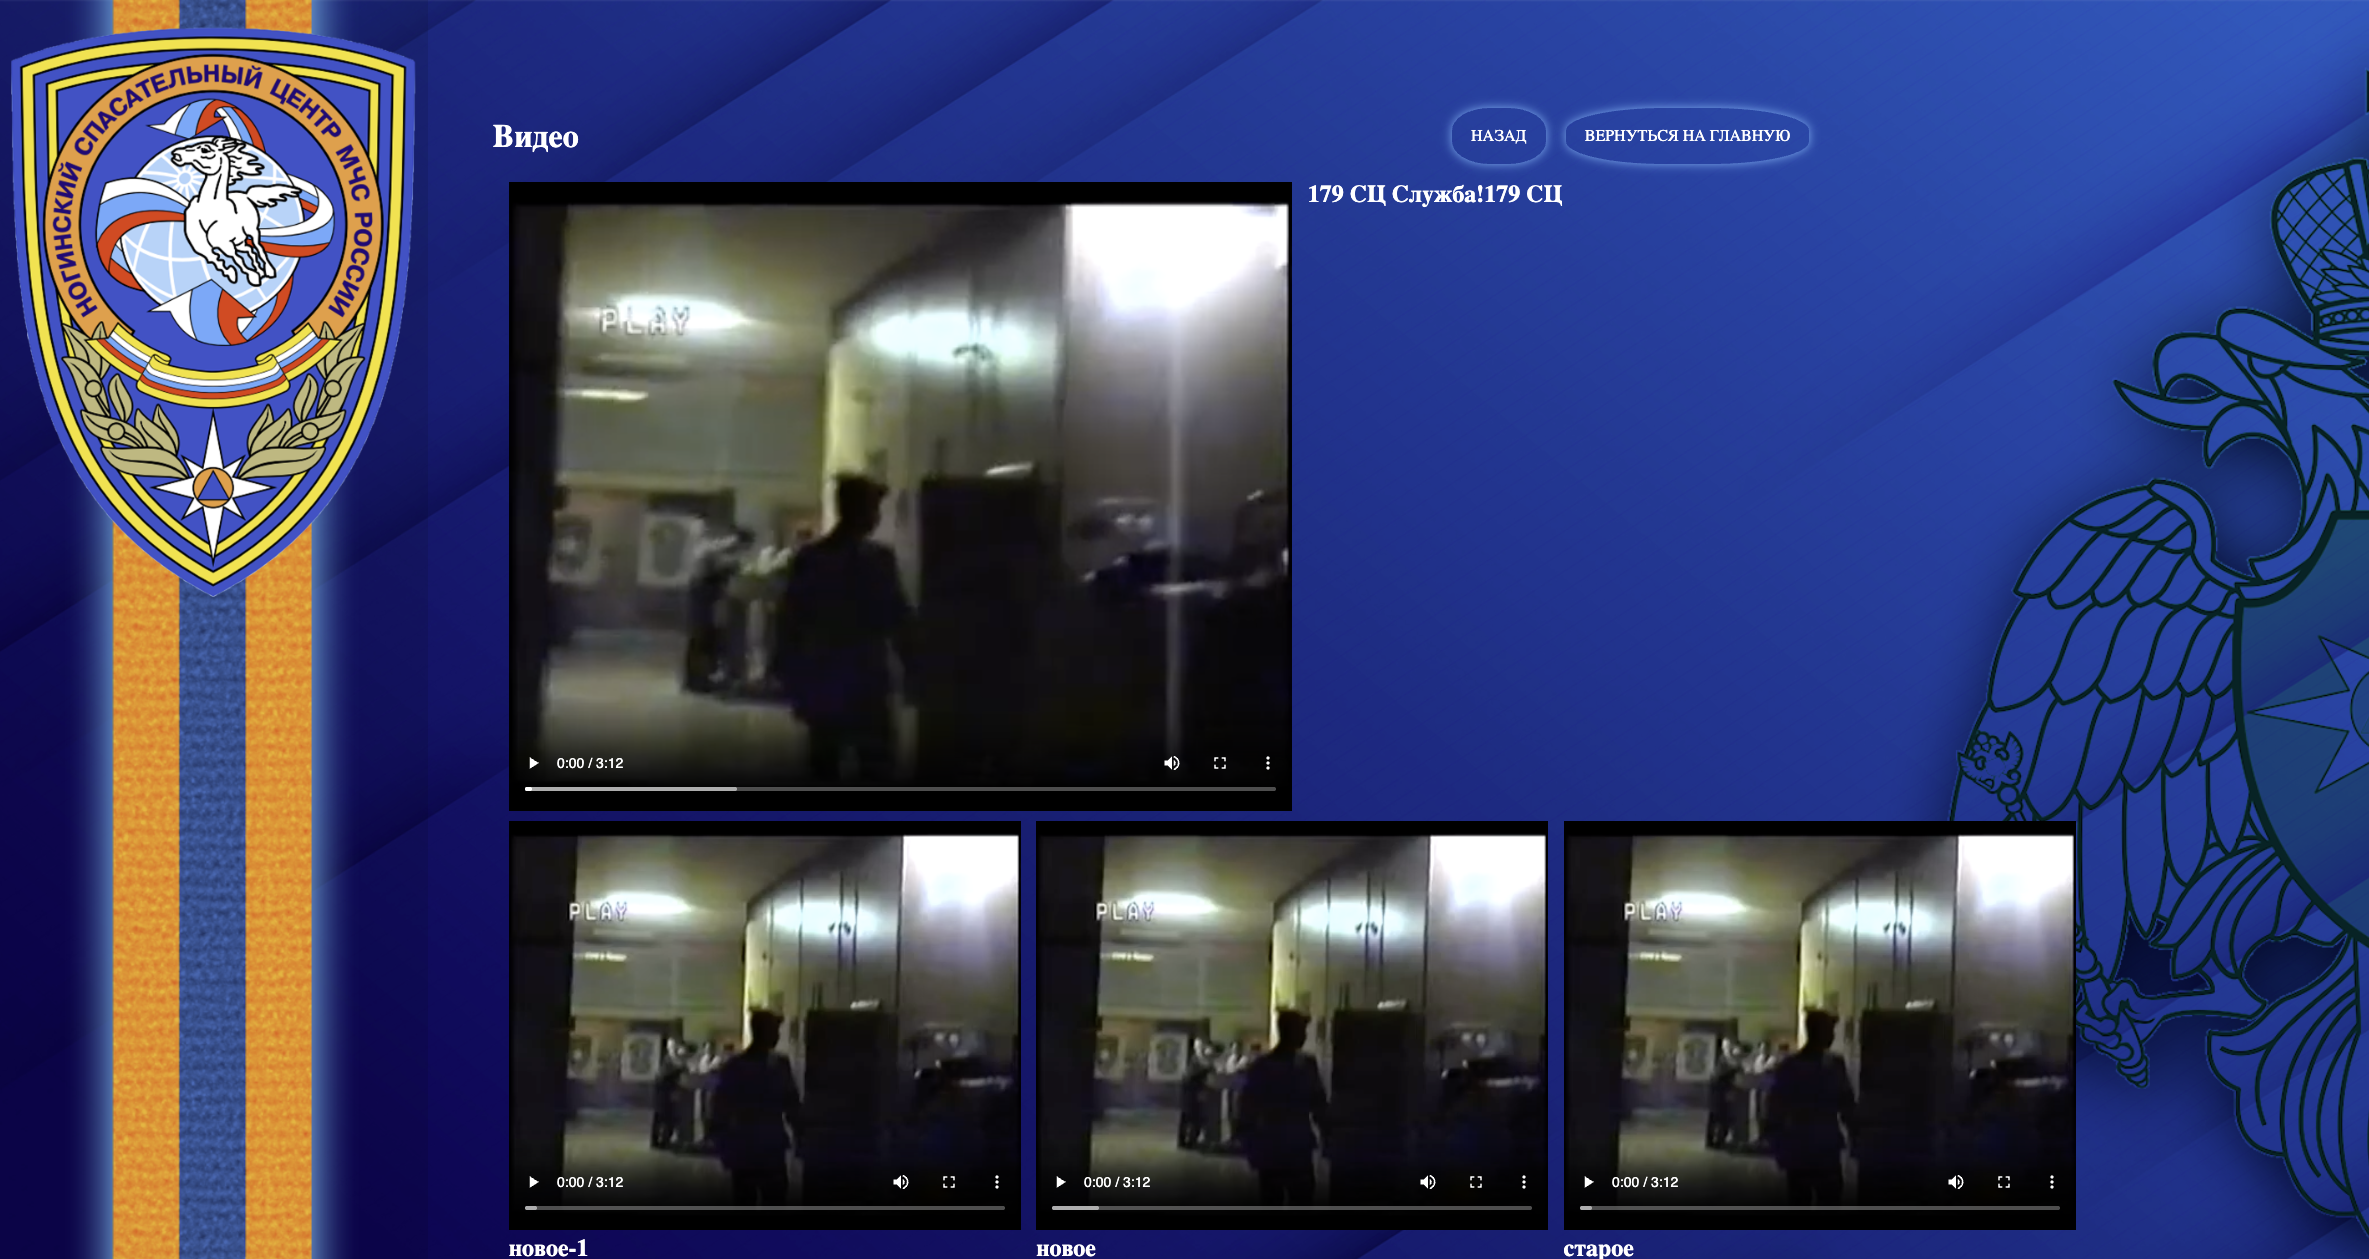
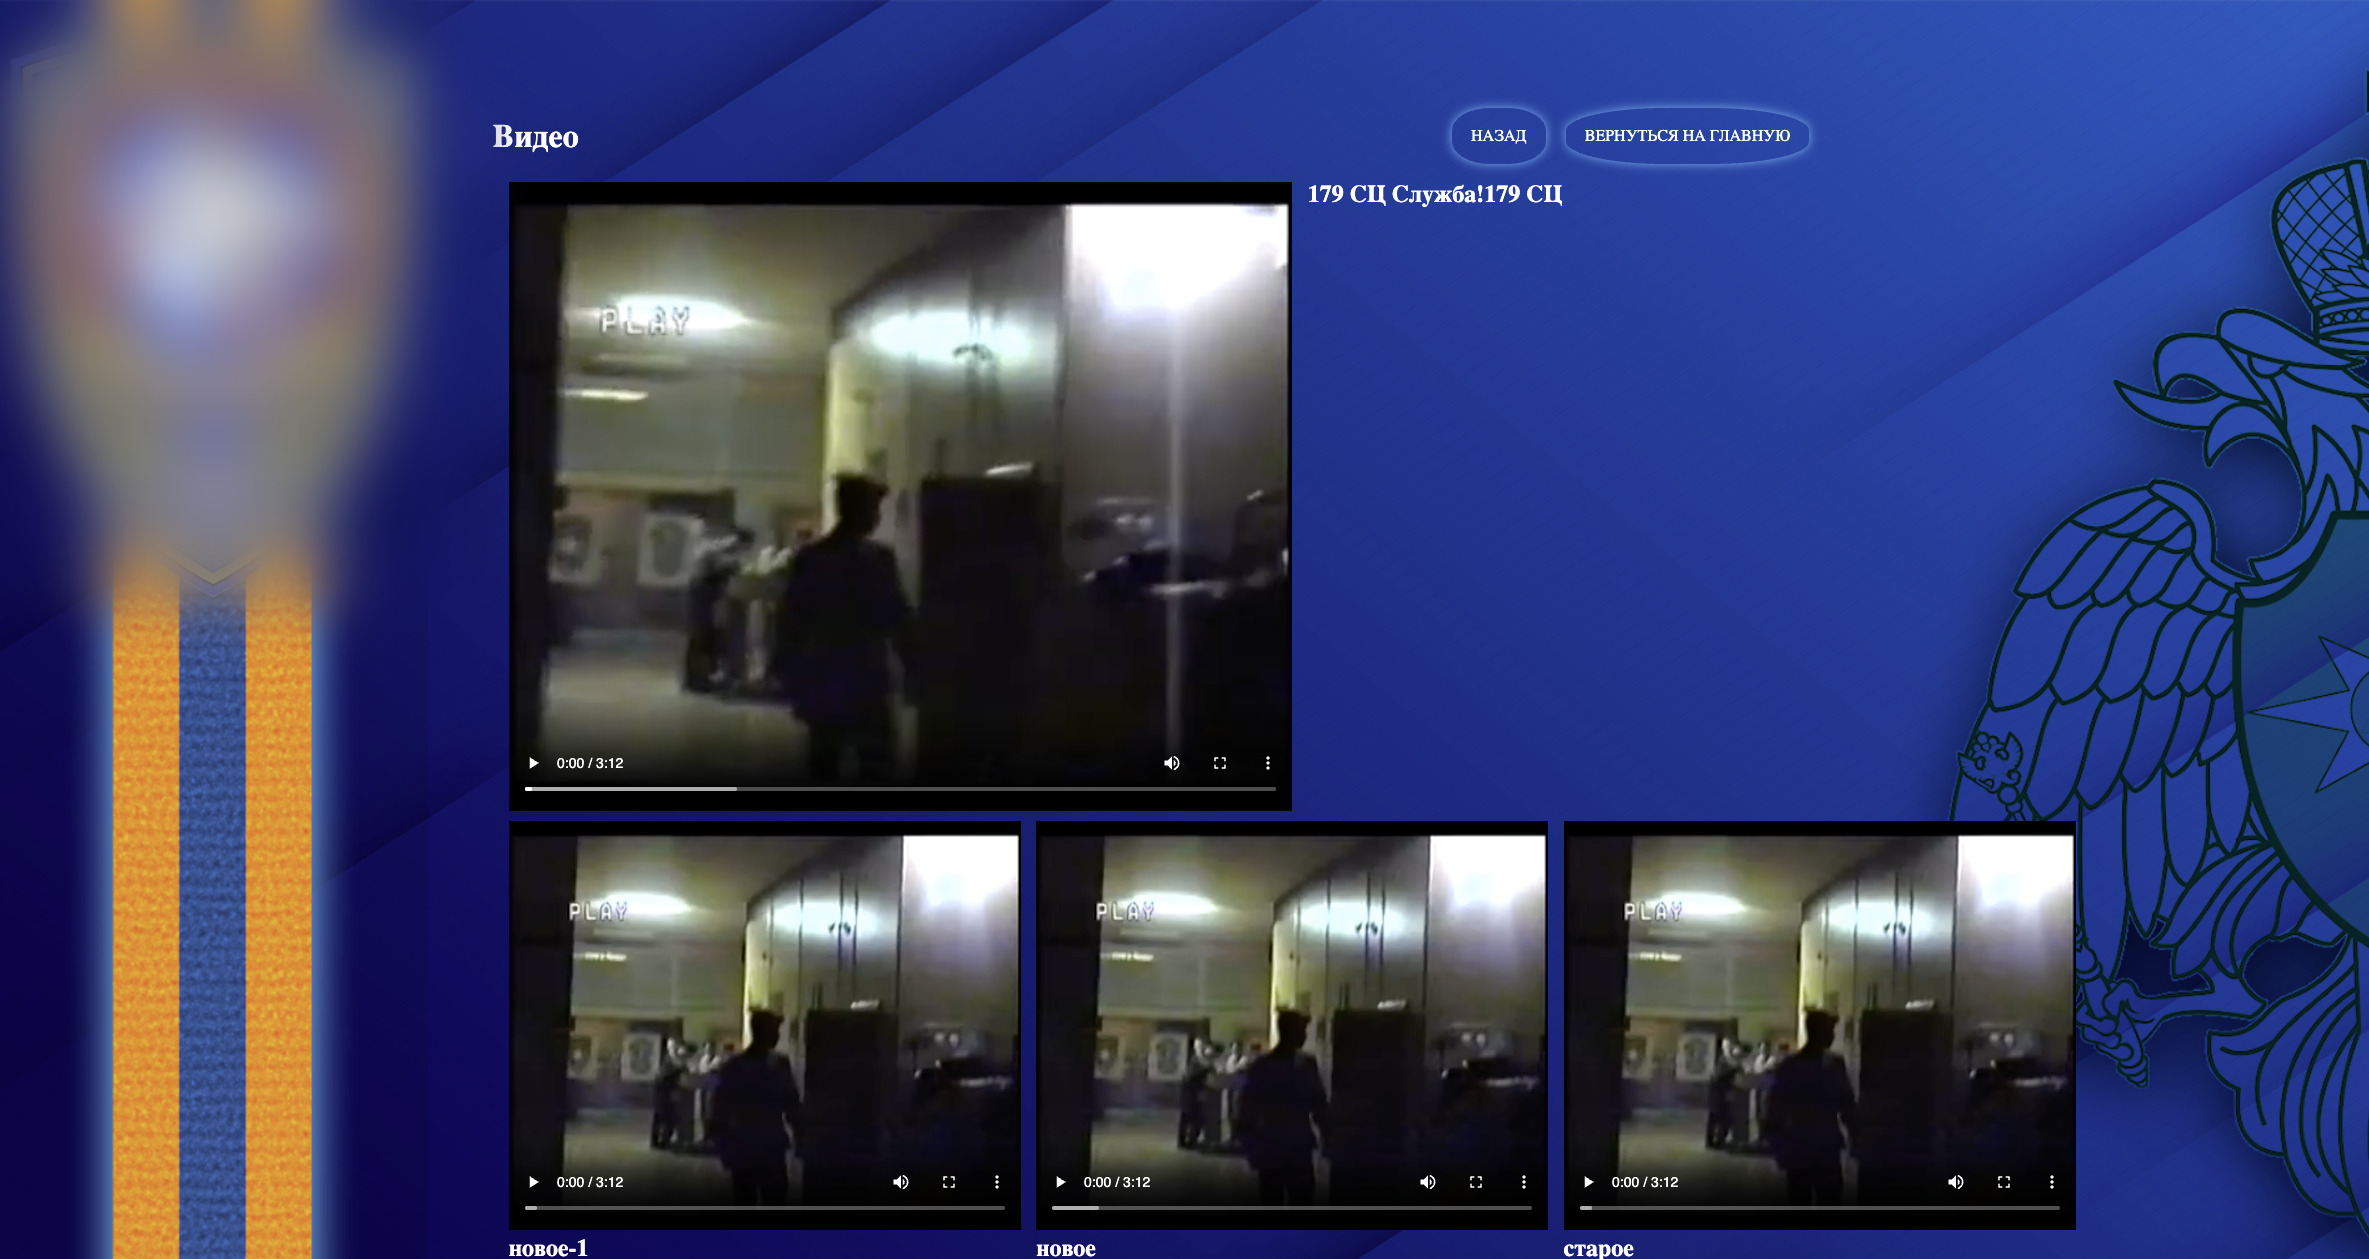
chore: замылен шеврон части на скриншоте киоска, работы отсортированы
Эмблема в левом верхнем углу video.png размыта по маске с мягкой
границей — иначе прямоугольный срез читался бы на градиенте фона.

Проекты выводятся от свежих к старым. Сортировка добавлена к экспорту
PROJECT_WORKS, а не во вью: тем же порядком переключаются проекты
внутри карточки.

Claude-Session: https://claude.ai/code/session_01MJHdtrfuLBYYTaZAfQo2ME

Changed region(s): [[0.0, 0.0, 0.1874, 0.4956]]

diff --git a/src/constants/projects.ts b/src/constants/projects.ts
@@ -50,7 +50,7 @@ export type ProjectType = {
     details?: DetailedInfo,
 }
 
-export const PROJECT_WORKS: ProjectType[] = [
+const WORKS: ProjectType[] = [
     {
         id: 'kiosk',
         name: 'Kiosk',
@@ -107,6 +107,10 @@ export const PROJECT_WORKS: ProjectType[] = [
         }
     }
 ];
+
+// Свежие проекты выше. Сортировка живёт здесь, а не во вью: тем же порядком
+// переключаются проекты внутри карточки
+export const PROJECT_WORKS: ProjectType[] = [...WORKS].sort((a, b) => (b.year ?? 0) - (a.year ?? 0));
 
 export const getProjectWorkById = (id: string): ProjectType | undefined => {
     return PROJECT_WORKS.find(el => el.id === id);
